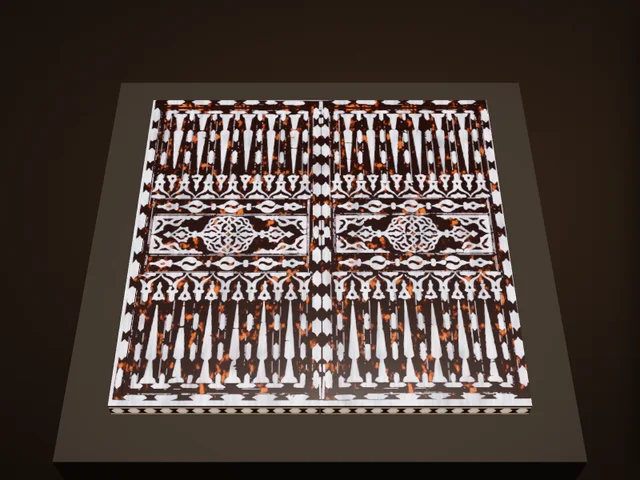
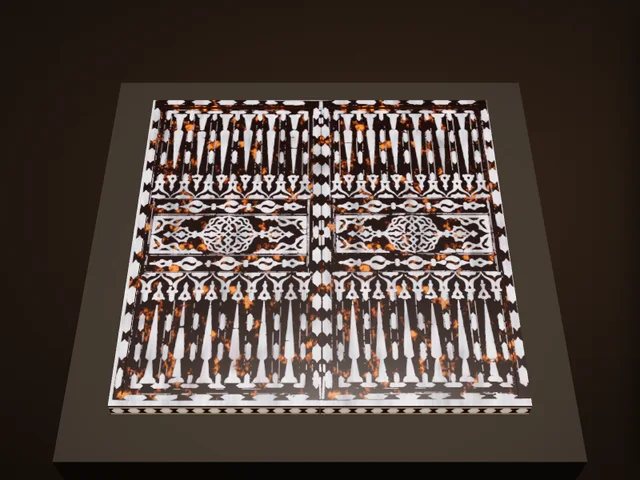
博物館：バックギャモン盤の貝と鼈甲の質感を写真に寄せる、ルイス駒の城兵の見どころの文を修正
Claude-Session: https://claude.ai/code/session_01EiWRAZTxRF5M5nk5vdR2jJ

Changed region(s): [[0.1562, 0.1875, 0.8125, 0.8438], [0.375, 0.7812, 0.4375, 0.8438], [0.7188, 0.7812, 0.75, 0.8438]]

diff --git a/atlas/museum/ex/ottoman.js b/atlas/museum/ex/ottoman.js
@@ -109,13 +109,13 @@
       const PS = 1024, pearlC = document.createElement('canvas'); pearlC.width = pearlC.height = PS;
       { const og = pearlC.getContext('2d'), img = og.createImageData(PS, PS), d = img.data;
         for (let j = 0; j < PS; j++) for (let i = 0; i < PS; i++) { const u = i / PS, v = j / PS, a = N(u * 22, v * 5, 3), b = N(u * 7 + 5, v * 16, 2), sh = N(u * 90, v * 14, 2), band = Math.sin((v * 9 + a * 2) * Math.PI) * .5 + .5;
-          const gr = 118 + sh * 60 + band * 22 + a * 18; const p = (j * PS + i) * 4; d[p] = gr + a * 16 - b * 14; d[p + 1] = gr + b * 12 - a * 6; d[p + 2] = gr + 10 + b * 18 + a * 6; d[p + 3] = 255; }
+          const gr = 132 + sh * 46 + band * 26 + a * 22; const p = (j * PS + i) * 4; d[p] = gr + a * 16 - b * 14; d[p + 1] = gr + b * 12 - a * 6; d[p + 2] = gr + 10 + b * 18 + a * 6; d[p + 3] = 255; }
         og.putImageData(img, 0, 0); }
       const shellC = document.createElement('canvas'); shellC.width = shellC.height = PS;
       { const og = shellC.getContext('2d'), img = og.createImageData(PS, PS), d = img.data;
-        for (let j = 0; j < PS; j++) for (let i = 0; i < PS; i++) { const u = i / PS, v = j / PS, m = N(u * 30 + 3, v * 18, 4) * .7 + N(u * 90, v * 50, 2) * .3, f = N(u * 90 + 7, v * 90, 2), t = Math.max(0, Math.min(1, (.405 - m) * 7));
+        for (let j = 0; j < PS; j++) for (let i = 0; i < PS; i++) { const u = i / PS, v = j / PS, m = N(u * 22 + 3, v * 15, 4) * .78 + N(u * 110, v * 70, 2) * .22, f = N(u * 90 + 7, v * 90, 2), t = Math.pow(Math.max(0, Math.min(1, (.41 - m) * 6)), 1.2);   // soft blotches a centimetre or two across, a little streaked
           // dark, almost black-brown ground with amber-to-orange blotches (gold leaf glowing through the thin parts)
-          const p = (j * PS + i) * 4; d[p] = 30 + t * 128 + (f - .5) * 10; d[p + 1] = 12 + t * 58 + (f - .5) * 6; d[p + 2] = 9 + t * 6; d[p + 3] = 255; }
+          const p = (j * PS + i) * 4; d[p] = 26 + t * 170 + (f - .5) * 10; d[p + 1] = 10 + t * 86 + (f - .5) * 6; d[p + 2] = 8 + t * 10; d[p + 3] = 255; }
         og.putImageData(img, 0, 0); }
       // the amber of thin turtle shell over gold leaf (for the X-shaped pieces between the plaques)
       const amberC = document.createElement('canvas'); amberC.width = amberC.height = 256;
@@ -136,8 +136,10 @@
           const lay = (fill, op) => { const c = document.createElement('canvas'); c.width = w; c.height = h; const q = c.getContext('2d'); q.drawImage(INLAY, 0, 0, w, h); q.globalCompositeOperation = op || 'source-in'; q.fillStyle = fill; q.fillRect(0, 0, w, h); return c; };
           const dk = lay('rgba(18,8,5,.8)'); [[1.6, 0], [-1.6, 0], [0, 1.6], [0, -1.6]].forEach(([dx, dy]) => g.drawImage(dk, dx, dy));
           const pc = lay(PP); { const q = pc.getContext('2d'), nn = K.noise(57), t = document.createElement('canvas'); t.width = 256; t.height = 256; const tq = t.getContext('2d'), im = tq.createImageData(256, 256), d = im.data;   // each piece its own tone: lighter and greyer patches
-            for (let y = 0; y < 256; y++) for (let x = 0; x < 256; x++) { const v = nn(x / 9, y / 22, 2), i = (y * 256 + x) * 4, wt = v > .5; d[i] = d[i + 1] = d[i + 2] = wt ? 255 : 40; d[i + 3] = Math.abs(v - .5) * (wt ? 110 : 190); } tq.putImageData(im, 0, 0);
+            for (let y = 0; y < 256; y++) for (let x = 0; x < 256; x++) { const v = nn(x / 9, y / 22, 2), i = (y * 256 + x) * 4, wt = v > .5; d[i] = d[i + 1] = d[i + 2] = wt ? 255 : 40; d[i + 3] = Math.abs(v - .5) * (wt ? 150 : 260); } tq.putImageData(im, 0, 0);
             q.globalCompositeOperation = 'source-atop'; q.drawImage(t, 0, 0, w, h); }
+          { const q = pc.getContext('2d'); q.globalCompositeOperation = 'source-atop'; q.strokeStyle = 'rgba(60,50,48,.45)'; q.lineWidth = 1; let cs = 9; const cr = () => ((cs = (cs * 16807) % 2147483647) / 2147483647);   // the joints between the pieces a point is made of, and cracks
+            for (let k = 0; k < 420; k++) { const x = cr() * w, y = cr() * h, a = (cr() - .5) * .5 + (cr() < .5 ? 0 : Math.PI / 2), l = cm(.4 + cr() * 1.2); q.beginPath(); q.moveTo(x, y); q.lineTo(x + Math.cos(a) * l, y + Math.sin(a) * l); q.stroke(); } }
           g.drawImage(pc, 0, 0);
           // the green-stained bone (the picture's red channel)
           { const c = document.createElement('canvas'); c.width = w; c.height = h; const q = c.getContext('2d'); q.drawImage(INLAY, 0, 0, w, h); const im = q.getImageData(0, 0, w, h), d = im.data; for (let i = 0; i < d.length; i += 4) { const a = d[i]; d[i] = 58; d[i + 1] = 122; d[i + 2] = 100; d[i + 3] = a; } q.putImageData(im, 0, 0); g.drawImage(c, 0, 0); }
@@ -234,7 +236,7 @@
         bgMask = new TT.CanvasTexture(mk); bgMask.colorSpace = TT.NoColorSpace;
       });
       // materials: shell / pearl in one picture; the pearl areas get a thin-film iridescence (mask)
-      const face = (map, mask) => K.mat({ map, color: '#ffffff', roughness: .3, metalness: .05, clearcoat: .6, clearcoatRoughness: .24, iridescence: .85, iridescenceIOR: 1.6, iridescenceThicknessRange: [180, 520], iridescenceMap: mask });
+      const face = (map, mask) => K.mat({ map, color: '#e9e6e2', roughness: .34, metalness: .05, clearcoat: .5, clearcoatRoughness: .28, iridescence: .55, iridescenceIOR: 1.6, iridescenceThicknessRange: [180, 520], iridescenceMap: mask });
       const chessMat = face(chessT, chessMask), bgMat = face(bgT, bgMask);
       const edgeT = K.tex(512, 64, (g, w, h) => { g.fillStyle = '#e8dcbc'; g.fillRect(0, 0, w, h); g.strokeStyle = 'rgba(90,70,40,.5)'; g.lineWidth = 2; for (let x = 0; x < w; x += 40) { g.beginPath(); g.moveTo(x, 0); g.lineTo(x + 20, h / 2); g.lineTo(x, h); g.stroke(); } }, { rep: [12, 1] });
       const bone = K.mat({ map: edgeT, color: '#ffffff', roughness: .45, clearcoat: .3 });

diff --git a/atlas/museum/gallery-ja.js b/atlas/museum/gallery-ja.js
@@ -85,7 +85,7 @@
         ['ほおに手をあてる女王', '女王はみな右手をほおにあてた、もの思いにふけるような姿。長い三つ編みの髪をベールでおおっています。'],
         ['司教の冠（ミトラ）', '前と後ろに角が立つ12世紀の形のミトラ。手には司教杖。ひげはなく、立った姿と座った姿があり、いちばん種類の多い駒です。'],
         ['小さな馬に乗る騎士', 'ひげの騎士が、ずんぐりした小さな馬にまたがります。槍と、上が丸く下がとがった「凧形の盾」を持ちます。'],
-        ['盾をかむ城兵', '城兵（ルーク）のうち4つは盾のふちをかんでいます。北欧のサガに出てくる、戦いの前に盾をかんで猛り狂う戦士「ベルセルク」を表したものと考えられています。'],
+        ['城兵', 'ここにあるのは剣と盾を持って立つ城兵（ルーク）。実物の城兵のうち4つは盾のふちをかんでいます。北欧のサガに出てくる、戦いの前に盾をかんで猛り狂う戦士「ベルセルク」を表したものと考えられています。'],
         ['歩兵', '歩兵は人の形ではなく、平たい板のような形や砲弾のような形。19個見つかっていて、すべて大英博物館にあります。'],
         ['玉座の彫刻', '玉座には飾り彫りがほどこされ、ノルウェーの中世の教会の彫刻を思わせます。']],
       model: "駒の形は、市販の複製品一式の3Dスキャン（Thomas Flynn 作、CC BY 4.0）です。博物館の実物そのものではありません。",

diff --git a/atlas/museum.js b/atlas/museum.js
@@ -32,7 +32,7 @@
   const ROOMS = [
     { id: 'map', ready: () => !!window.AtlasMap, render: (el, c) => AtlasMap.render(el, c) },
     { id: 'tree', src: ['museum/tree.js?v=3'], ready: () => !!window.AtlasTree, render: (el, c) => AtlasTree.render(el, c) },
-    { id: 'gallery', src: ['museum/gallery.js?v=57'], ready: () => !!window.AtlasGallery, render: (el, c) => AtlasGallery.render(el, c) },
+    { id: 'gallery', src: ['museum/gallery.js?v=58'], ready: () => !!window.AtlasGallery, render: (el, c) => AtlasGallery.render(el, c) },
   ];
   const KEY = 'atlas-museum-room';
   const esc = s => String(s == null ? '' : s).replace(/[&<>"]/g, c => ({ '&': '&amp;', '<': '&lt;', '>': '&gt;', '"': '&quot;' }[c]));

diff --git a/atlas/index.html b/atlas/index.html
@@ -2559,7 +2559,7 @@ window.AtlasRgdTimer = function (btn, ms, alive) {
 <link rel="stylesheet" href="worldmap.css?v=19">
 <link rel="stylesheet" href="museum.css?v=4">
 <script src="worldmap.js?v=40"></script>
-<script src="museum.js?v=58"></script>
+<script src="museum.js?v=59"></script>
 <script src="npc/npc.js?v=46"></script>
 <script src="avtalk.js?v=4"></script>
 <script>/* Page states as classes on <html> (2026-11-21) — html.cov-on: the 3D view / Historia / a sheet / a level sheet is open;

diff --git a/atlas/museum/gallery.js b/atlas/museum/gallery.js
@@ -10,7 +10,7 @@
    (a turn, a zoom, the slow turntable) and never while the window is in the background. */
 (function () {
   'use strict';
-  const V = 57;
+  const V = 58;
   /* ---------- the pieces: id, the game it belongs to, its scale (cm per model unit), the camera's start, the details ----------
      lock: { game, ach } → open after that many achievements of the game. src: the files the piece needs (besides ex/<id>.js) */
   const EX = [
